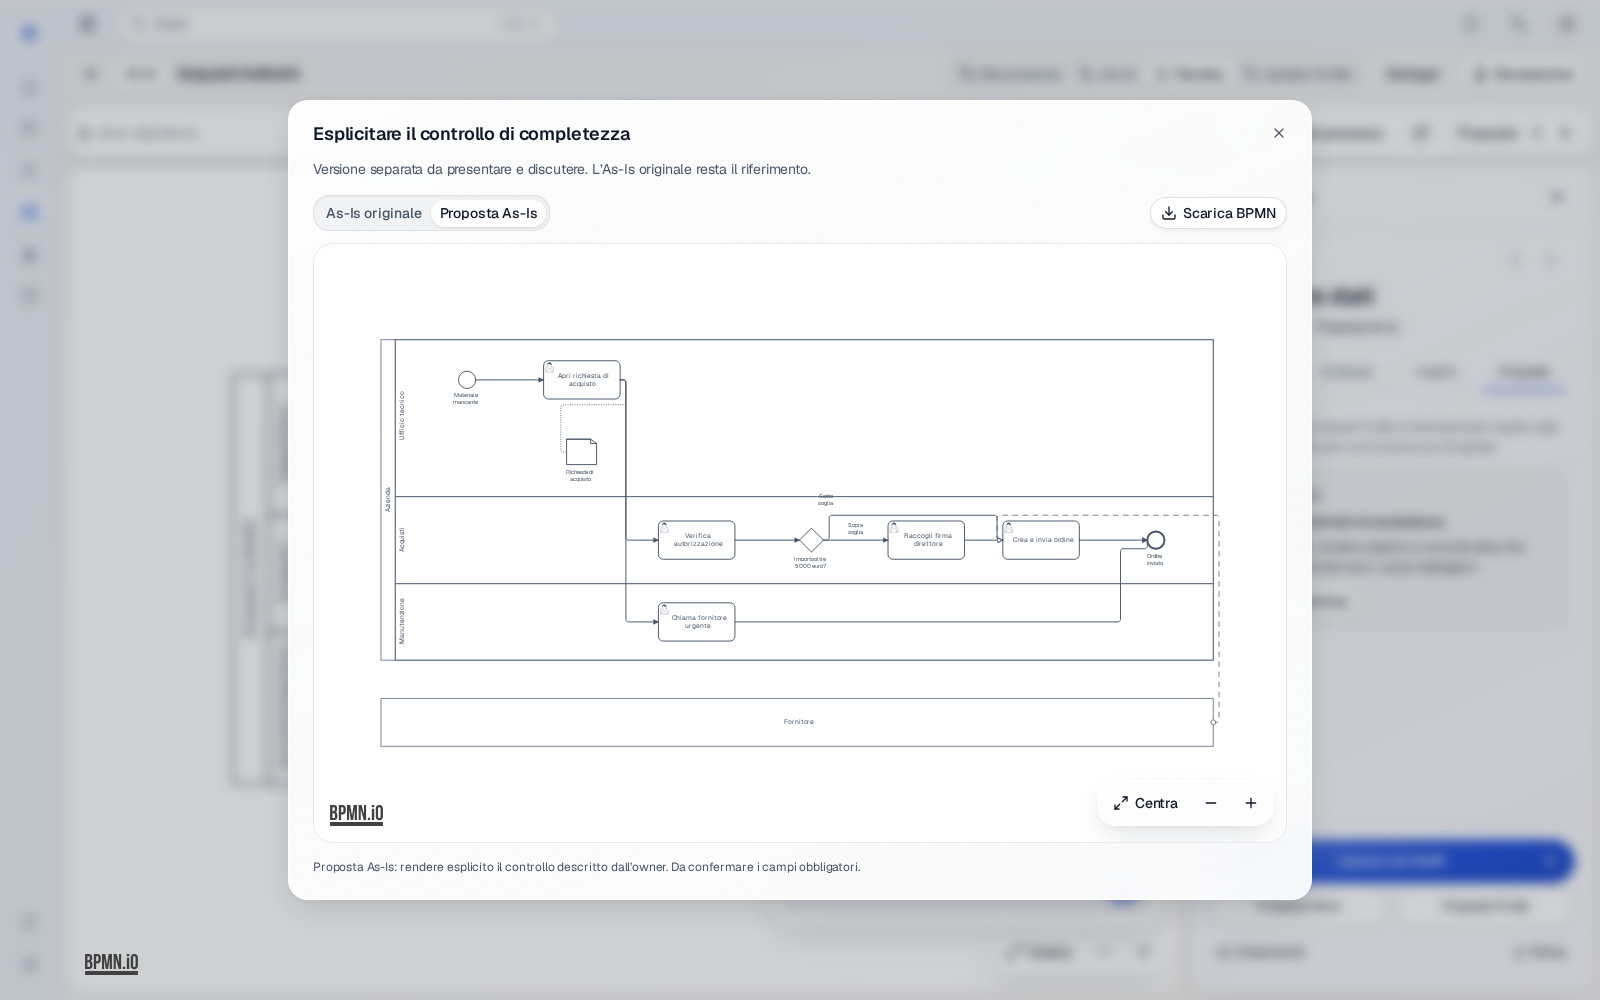
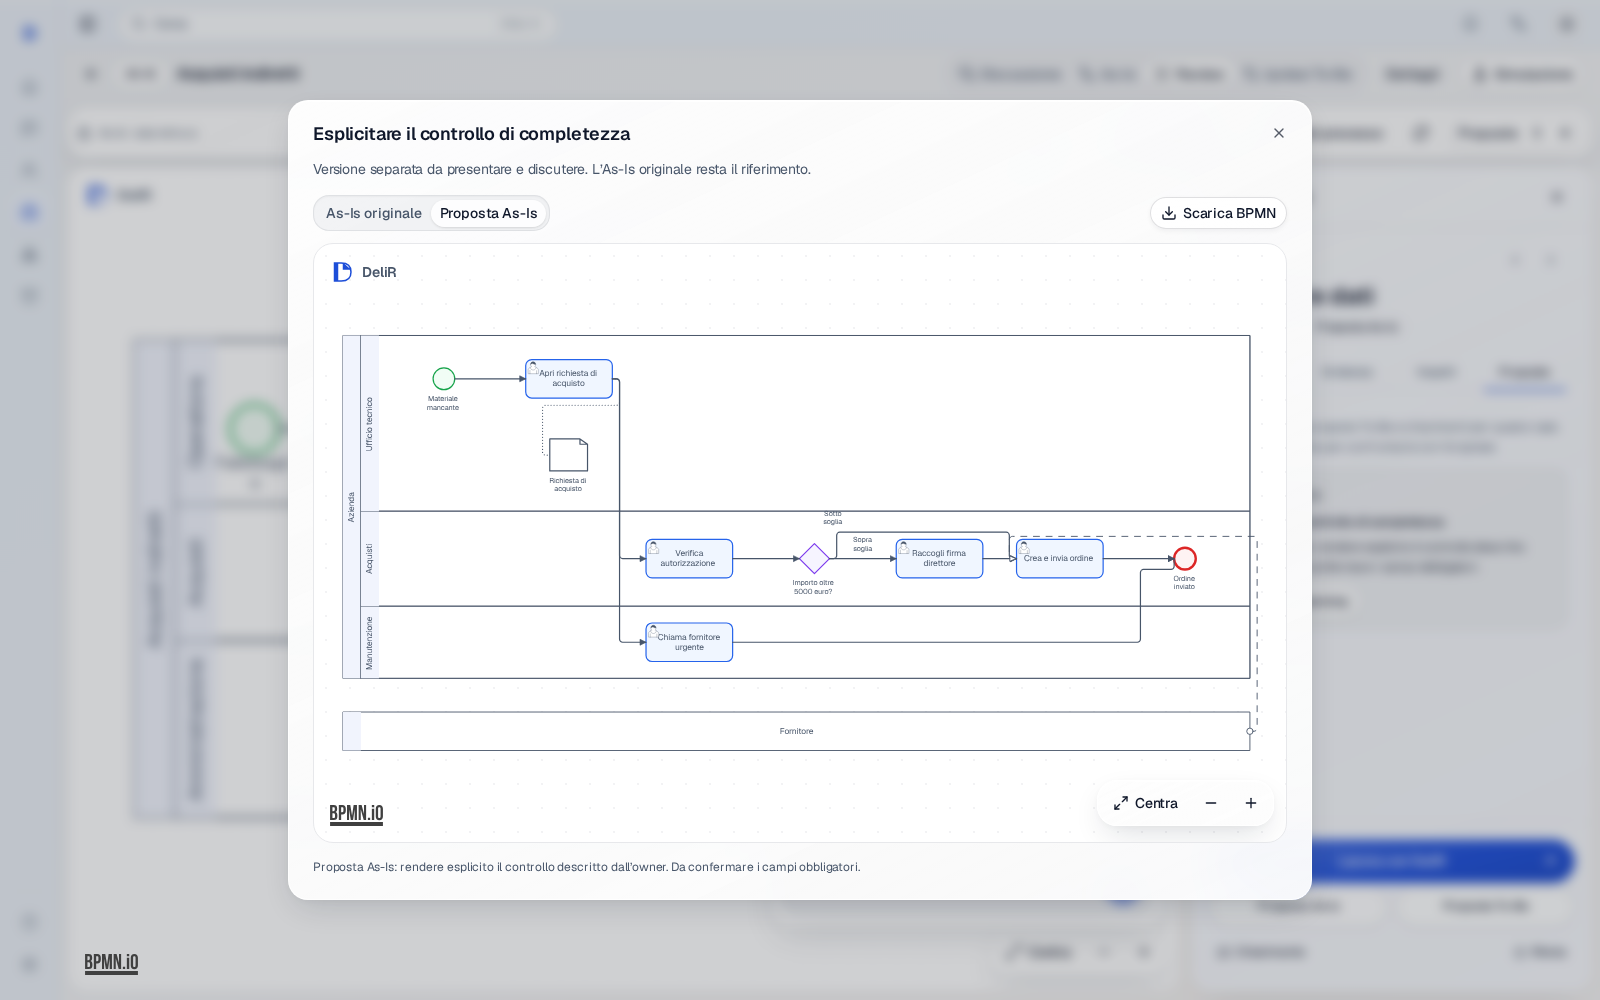
docs(canvas): record compact product visuals and NLP quality limits

diff --git a/docs/design/delir-canvas-identity.md b/docs/design/delir-canvas-identity.md
@@ -1,0 +1,84 @@
+# Compact DeliR canvas
+
+AI-generated diagrams use the global `delir-compact-v2` policy. Product geometry
+is compulsory for every agent write; consultant geometry remains preserved and
+validated. These changes do not grant an agent control over presentation.
+
+## Density and readable text
+
+Activity defaults are 144×64, with 56-unit column gaps and 28-unit content
+padding. Lane height follows its actual nodes, labels, documents, boundary
+events and loop channels. An explicitly modelled but unused role is retained as
+a 56-unit band. External black-box participants use 64-unit bands. No roles,
+tasks, documents or participant relationships are deleted to make a drawing fit.
+
+Verbose NLP activity names grow the task height; sibling tracks reserve that
+height before placement. Branch labels search nearby positions along their
+route when the midpoint is occupied, with the same collision and containment
+checks. The facility golden case exercises this dense placement regression.
+
+The purchase fixture's process pool shrank from 1740×670 to 1508×570. Its three
+roles, decision branches, document, boundary and supplier message remain intact.
+Viewport framing uses 48-unit margins rather than 140 horizontal / 120 vertical
+margins. A complete overview can still be zoomed and panned on a phone.
+
+The browser checks actual rendered label bounds against activity rectangles.
+SVG `geometricPrecision` prevents small-zoom mobile glyph rounding from pushing
+labels outside their shapes. Review loads the UI font before measuring text.
+
+## Product identity
+
+Editor and Review share the existing `domain-process-*` semantic palette from
+main: human tasks, automation, decisions, starts and ends retain distinct types.
+Explicit imported DI colours take precedence; the colour toggle remains usable.
+Evidence/provenance and selected/upstream/downstream outlines take precedence
+over type outlines. None of the presentation markers changes saved BPMN XML.
+
+The folded-D mark echoes the Review companion and accompanies the DeliR
+wordmark. A quiet token-based grid and tinted role headers frame the canvas.
+Both added semantic tokens resolve through the existing primitives; no new
+colour literals or independent palette were introduced. Headers update from
+the current registry and leave the structural BPMN outline and labels intact.
+
+Visual references inspected: [ProcessMind's modeling canvas](https://processmind.com/resources/docs/modeling/modeling-canvas)
+and [Camunda's contextual modeling controls](https://camunda.com/blog/2024/02/model-faster-simplified-modeling-canvas/).
+Their useful patterns are a restrained workspace, contextual actions and stable
+navigation; DeliR retains its own palette, typography and companion.
+
+The installed bpmn-js license requires its watermark to remain fully visible.
+It is preserved and unobstructed. Removing it requires appropriate licensing
+or replacement of the renderer, not a CSS hiding rule.
+
+## What the quality numbers mean
+
+The reproducible geometry corpus passes 100/100 varied cases with topology and
+owner preservation, finite geometry, visual lint and idempotence. Additional
+tests cover verbose task names and real empty roles. Existing golden compiler
+and control-flow tests also pass. Review's actual LangGraph tool output is
+persisted, imported by the browser and checked for new tasks, owners, painted
+connections and exported BPMN. Browser conversations use controlled responses.
+
+These results do not establish 99% semantic accuracy for arbitrary NLP.
+The existing live evaluation entrypoint is
+`tests/evals/l1_golden/test_golden_set.py`: interviews → extraction → compilation
+→ reference graph and provenance metrics. It requires a dedicated test provider
+(`DELIR_TEST_LLM_BASE_URL`, `DELIR_TEST_LLM_API_KEY`, `DELIR_TEST_LLM_MODEL`), which
+was not configured in this execution environment. No production provider was
+silently used in its place.
+
+Before claiming a 99% production success rate, define success as all required
+activities, owners, conditions, exceptions and evidence surviving without
+invented facts, plus a passing rendered layout. Evaluate representative NLP
+cases against consultant-validated references on the production model/config.
+For example, zero failures in at least 299 independent representative trials
+would support a one-sided 95% lower confidence bound above 99%; a hand-built
+geometry corpus is not such a sample. Report failures and consultant corrections
+as well as the aggregate score. Unknown evidence must remain an explicit gap.
+
+## Product screenshots
+
+![Compact three-role proposal](process-review/enterprise-layout-proposal.png)
+
+![Actual agent tool output](process-review/engine-proposal-desktop.png)
+
+![Phone overview](process-review/enterprise-layout-mobile.png)

diff --git a/docs/design/canvas-layout-policy.md b/docs/design/canvas-layout-policy.md
@@ -4,6 +4,10 @@ Agents edit process meaning. DeliR owns diagram geometry.
 
 `Agent → semantic BPMN → normalizer → graph/lane layout → visual lint → regenerated BPMN DI → bpmn-js`
 
+The current grammar is `delir-compact-v2`; density, product identity, rendered
+text checks and the limits of the NLP quality claim are documented in
+[Compact DeliR canvas](delir-canvas-identity.md).
+
 The entrypoint is `backend.bpmn.canvas_layout.apply_enterprise_layout`. Compilers,
 canvas editing helpers, construction tools, the drawing subgraph and Review
 proposals use it. A second guard at model persistence checks the runtime actor:
